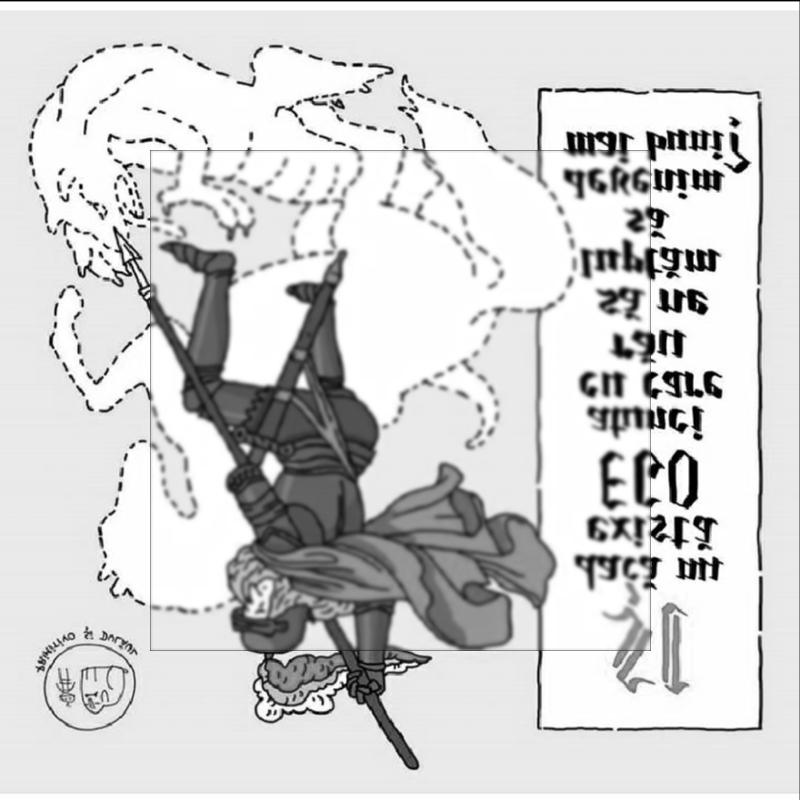
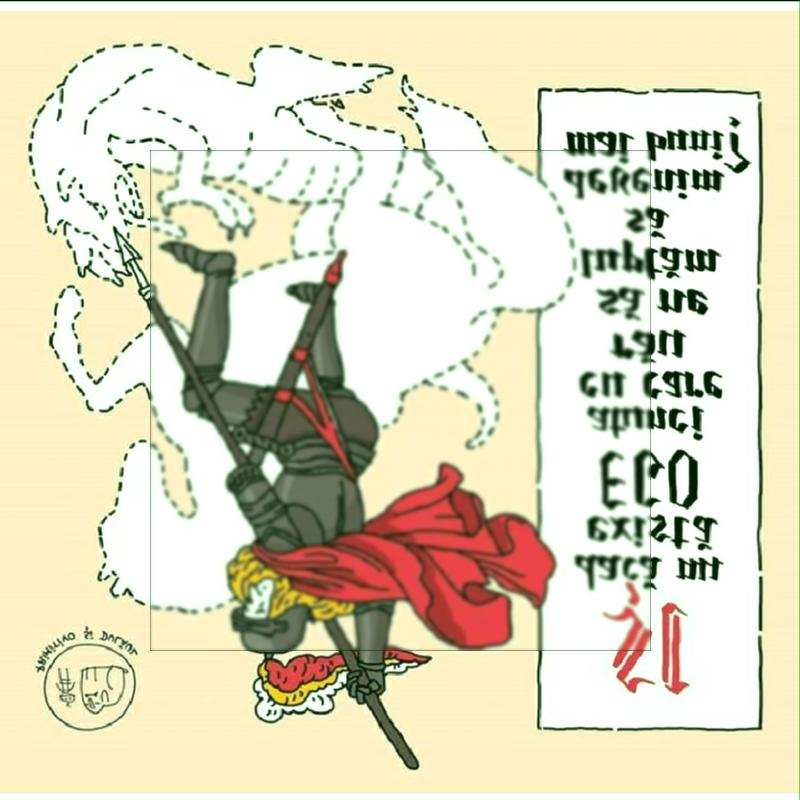
Fixed the color adding system

diff --git a/lib/modify_color.go b/lib/modify_color.go
@@ -7,6 +7,19 @@ import (
     "math"
 )
 
+/**
+    Force the value val in [min, max].
+*/
+func Clamp(min, max uint32, val uint32) uint32 {
+    if val <= min {
+        return min
+    } else if val >= max {
+        return max
+    } else {
+        return val
+    }
+}
+
 func Amplify_color(img image.Image, r_mod, g_mod, b_mod, a_mod float64) {
     bounds := img.Bounds()
 
@@ -27,6 +40,40 @@ func Amplify_color(img image.Image, r_mod, g_mod, b_mod, a_mod float64) {
                      g_fin := uint32(math.Floor(float64(g) * g_mod))
                      b_fin := uint32(math.Floor(float64(b) * b_mod))
                      a_fin := uint32(math.Floor(float64(a) * a_mod))
+
+                     img.(draw.Image).Set(x, y, color.RGBA{uint8(r_fin >> 8), uint8(g_fin >> 8), uint8(b_fin >> 8), uint8(a_fin >> 8)})
+                }
+            }
+
+            done <- true;
+        } ()
+    }
+
+    for i := 0; i < n; i++ {
+        <-done
+    }
+}
+
+func Add_color(img image.Image, r_mod, g_mod, b_mod, a_mod uint32) {
+    bounds := img.Bounds()
+
+    n := 10
+    done := make(chan bool, n)
+
+    for p := 0; p < n; p ++ {
+        aux_rank := p
+        go func() {
+            rank := aux_rank
+
+            for y := bounds.Min.Y + rank; y <= bounds.Max.Y; y += n {
+                for x := bounds.Min.X; x <= bounds.Max.X; x++ {
+
+                     r, g, b, a := img.At(x, y).RGBA()
+
+                     r_fin := Clamp(0, (256 << 8) - 1, r + (r_mod << 8))
+                     g_fin := Clamp(0, (256 << 8) - 1, g + (g_mod << 8))
+                     b_fin := Clamp(0, (256 << 8) - 1, b + (b_mod << 8))
+                     a_fin := Clamp(0, (256 << 8) - 1, a + (a_mod << 8))
 
                      img.(draw.Image).Set(x, y, color.RGBA{uint8(r_fin >> 8), uint8(g_fin >> 8), uint8(b_fin >> 8), uint8(a_fin >> 8)})
                 }

diff --git a/handler.go b/handler.go
@@ -24,7 +24,7 @@ func main() {
 
     lib.Apply_filter(card, image.Point {150, 150}, image.Point {650, 650}, f, 5)
 
-    lib.Grayscale(card, 0.52, 0.32, 0.16)
+    lib.Add_color(card, 0, 25, 0, 0)
 
     card = lib.Mirror(card, lib.HORIZONTAL_MODE)
 

diff --git a/TODO.md b/TODO.md
@@ -13,12 +13,15 @@
 - [x] Extend filter appliance to support strength parameter
 - [x] Add border conditions to filter appliance
 - [x] Add support for any sizes of filters
+- [x] Add color adder
+- [ ] Replace the coloring functions with only one transformation with matrix
 
 # Refactoring
 - [x] Move each group functions into a package and folder on its one
 - [x] Ensure correct importing of auxiliary functions
 - [ ] Refactor scaling to dynamically use interpolations
 - [ ] Reduce number of interpolations arguments through a structure
+- [ ] Move mirroring auxiliaries in a special directory
 
 # Testing
 - [ ] Write unit tests for filter appliance
